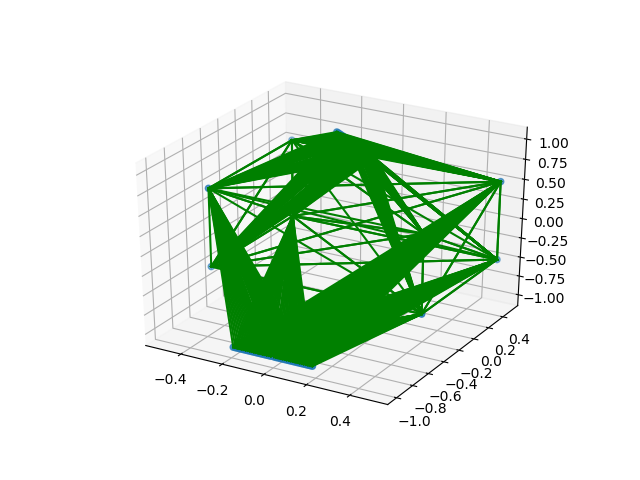
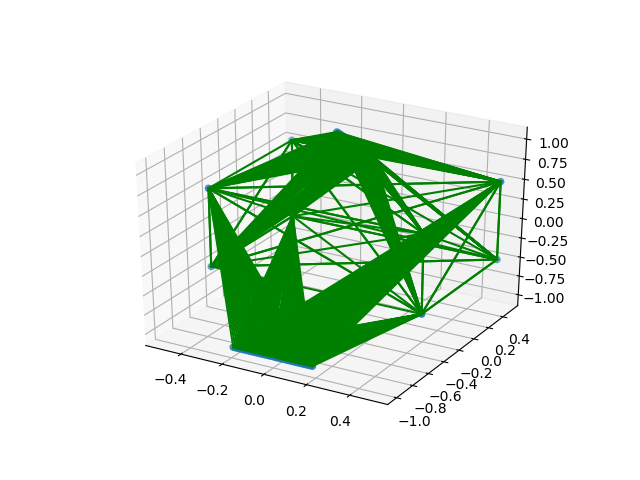
continous evo training paradigm v one

diff --git a/brain_trader.py b/brain_trader.py
@@ -202,15 +202,14 @@ class LiveTrader:
         self.poloTrader()
 
 class PaperTrader:
-    params = {"initial_depth": 3,
-            "max_depth": 6,
-            "variance_threshold": 0.013,
-            "band_threshold": 0.013,
+    params = {"initial_depth": 2,
+            "max_depth": 4,
+            "variance_threshold": 0.0000013,
+            "band_threshold": 0.0000013,
             "iteration_level": 3,
-            "division_threshold": 0.013,
+            "division_threshold": 0.0000013,
             "max_weight": 5.0,
             "activation": "tanh"}
-
 
     # Config for CPPN.
     config = neat.config.Config(neat.genome.DefaultGenome, neat.reproduction.DefaultReproduction,
@@ -229,15 +228,17 @@ class PaperTrader:
         self.inputs = self.hist_shaped.shape[0]*(self.hist_shaped[0].shape[1]-1)
         self.outputs = self.hist_shaped.shape[0]
         self.make_shapes()
-        self.multiplier = self.inputs/self.outputs
         self.folio = CryptoFolio(start_amount, self.coin_dict)
-        file = open("es_trade_god_cppn_3d.pkl",'rb')
-        g = pickle.load(file)
-        file.close()
         self.leaf_names = []
         for l in range(len(self.in_shapes[0])):
             self.leaf_names.append('leaf_one_'+str(l))
             self.leaf_names.append('leaf_two_'+str(l))
+        
+
+    def load_net(self):
+        file = open("es_trade_god_cppn_3d.pkl",'rb')
+        g = pickle.load(file)
+        file.close()
         self.cppn = create_cppn(g, self.config, self.leaf_names, ['cppn_out'])
         
     def make_shapes(self):

diff --git a/trading_purples.py b/trading_purples.py
@@ -138,14 +138,19 @@ class PurpleTrader:
 
     def eval_fitness(self, genomes, config):
         r_start = randint(0+self.hd, self.hs.hist_full_size - self.epoch_len)
+        fitter = genomes[0]
+        fitter_val = 0.0 
         for idx, g in genomes:
             [cppn] = create_cppn(g, config, self.leaf_names, ['cppn_out'])
             network = ESNetwork(self.subStrate, cppn, self.params)
-            net = network.create_phenotype_network_nd()
+            net = network.create_phenotype_network_nd('current_net.png')
             g.fitness = self.evaluate(net, network, r_start)
-
-
-
+            if(g.fitness > fitter_val):
+                fitter = g
+                fitter_val = g.fitness
+        with open('perpetual_champion.pkl', 'wb') as output:
+            pickle.dump(winner, output)
+        print("latest_saved")
 # Create the population and run the XOR task by providing the above fitness function.
 def run_pop(task, gens):
     pop = neat.population.Population(task.config)
